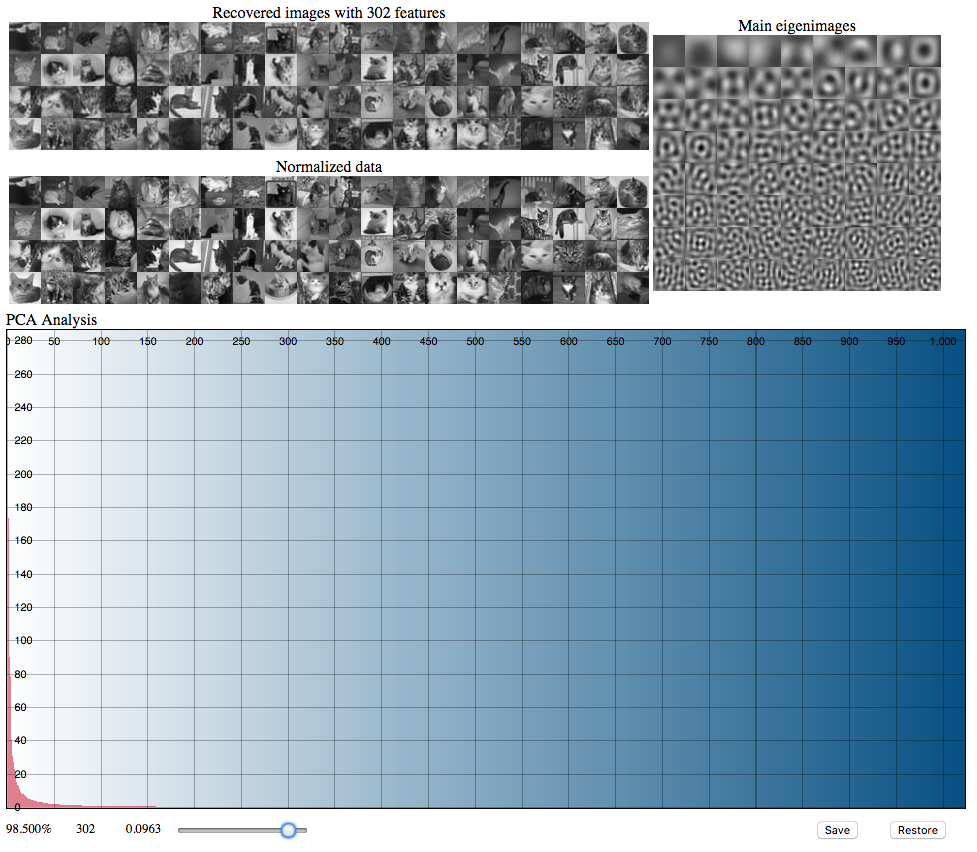
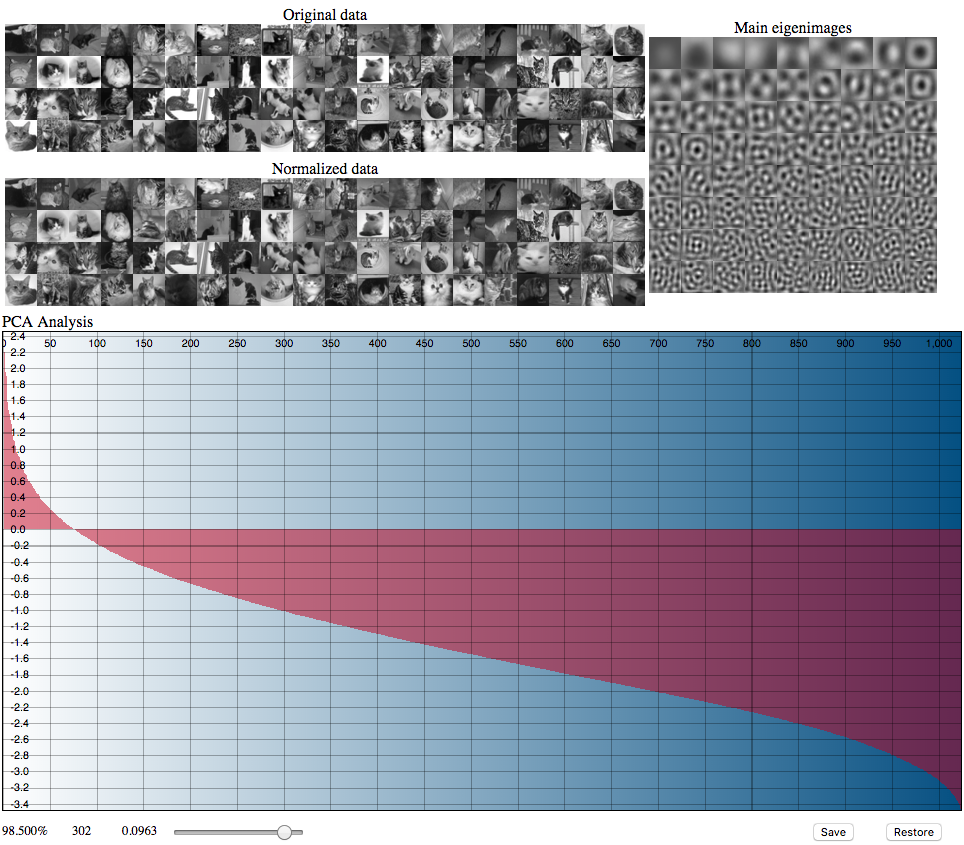
Log10 eigenvalues X # of eigenvectors

diff --git a/js/getData.js b/js/getData.js
@@ -97,7 +97,7 @@ function doPca() {
 
   // Build sDiagonal, with the accumulated eigenvalues
   for(let i = 0; i<svdSLength; i++) {
-    sDiagonal.push({pca:getData.svd.S[i], x: i+1});
+    sDiagonal.push({pca:getData.svd.S[i], log: Math.log10(getData.svd.S[i]), x: i+1});
     sum += getData.svd.S[i];
   }
 
@@ -109,7 +109,7 @@ function doPca() {
 
   // Fits projection to SVG size
   const domainX = [-1, sDiagonal.length+1],
-        domainY = [-1, sDiagonal[0].pca];
+        domainY = [sDiagonal[sDiagonal.length-1].log, sDiagonal[0].log];
 
   // Draws the S(eigenvalue) curve
   draw(domainX, domainY, sDiagonal);

diff --git a/js/draw.js b/js/draw.js
@@ -98,7 +98,7 @@ function draw(domainX, domainY, data) {
 
     var pcaCurve = d3.area()
         .x(function(d) { return x(d.x); })
-        .y(function(d) { return y(d.pca); })
+        .y(function(d) { return y(d.log); })
         .y1(function(d) { return y(0); });
 
     var svg = d3.select("#graph");
